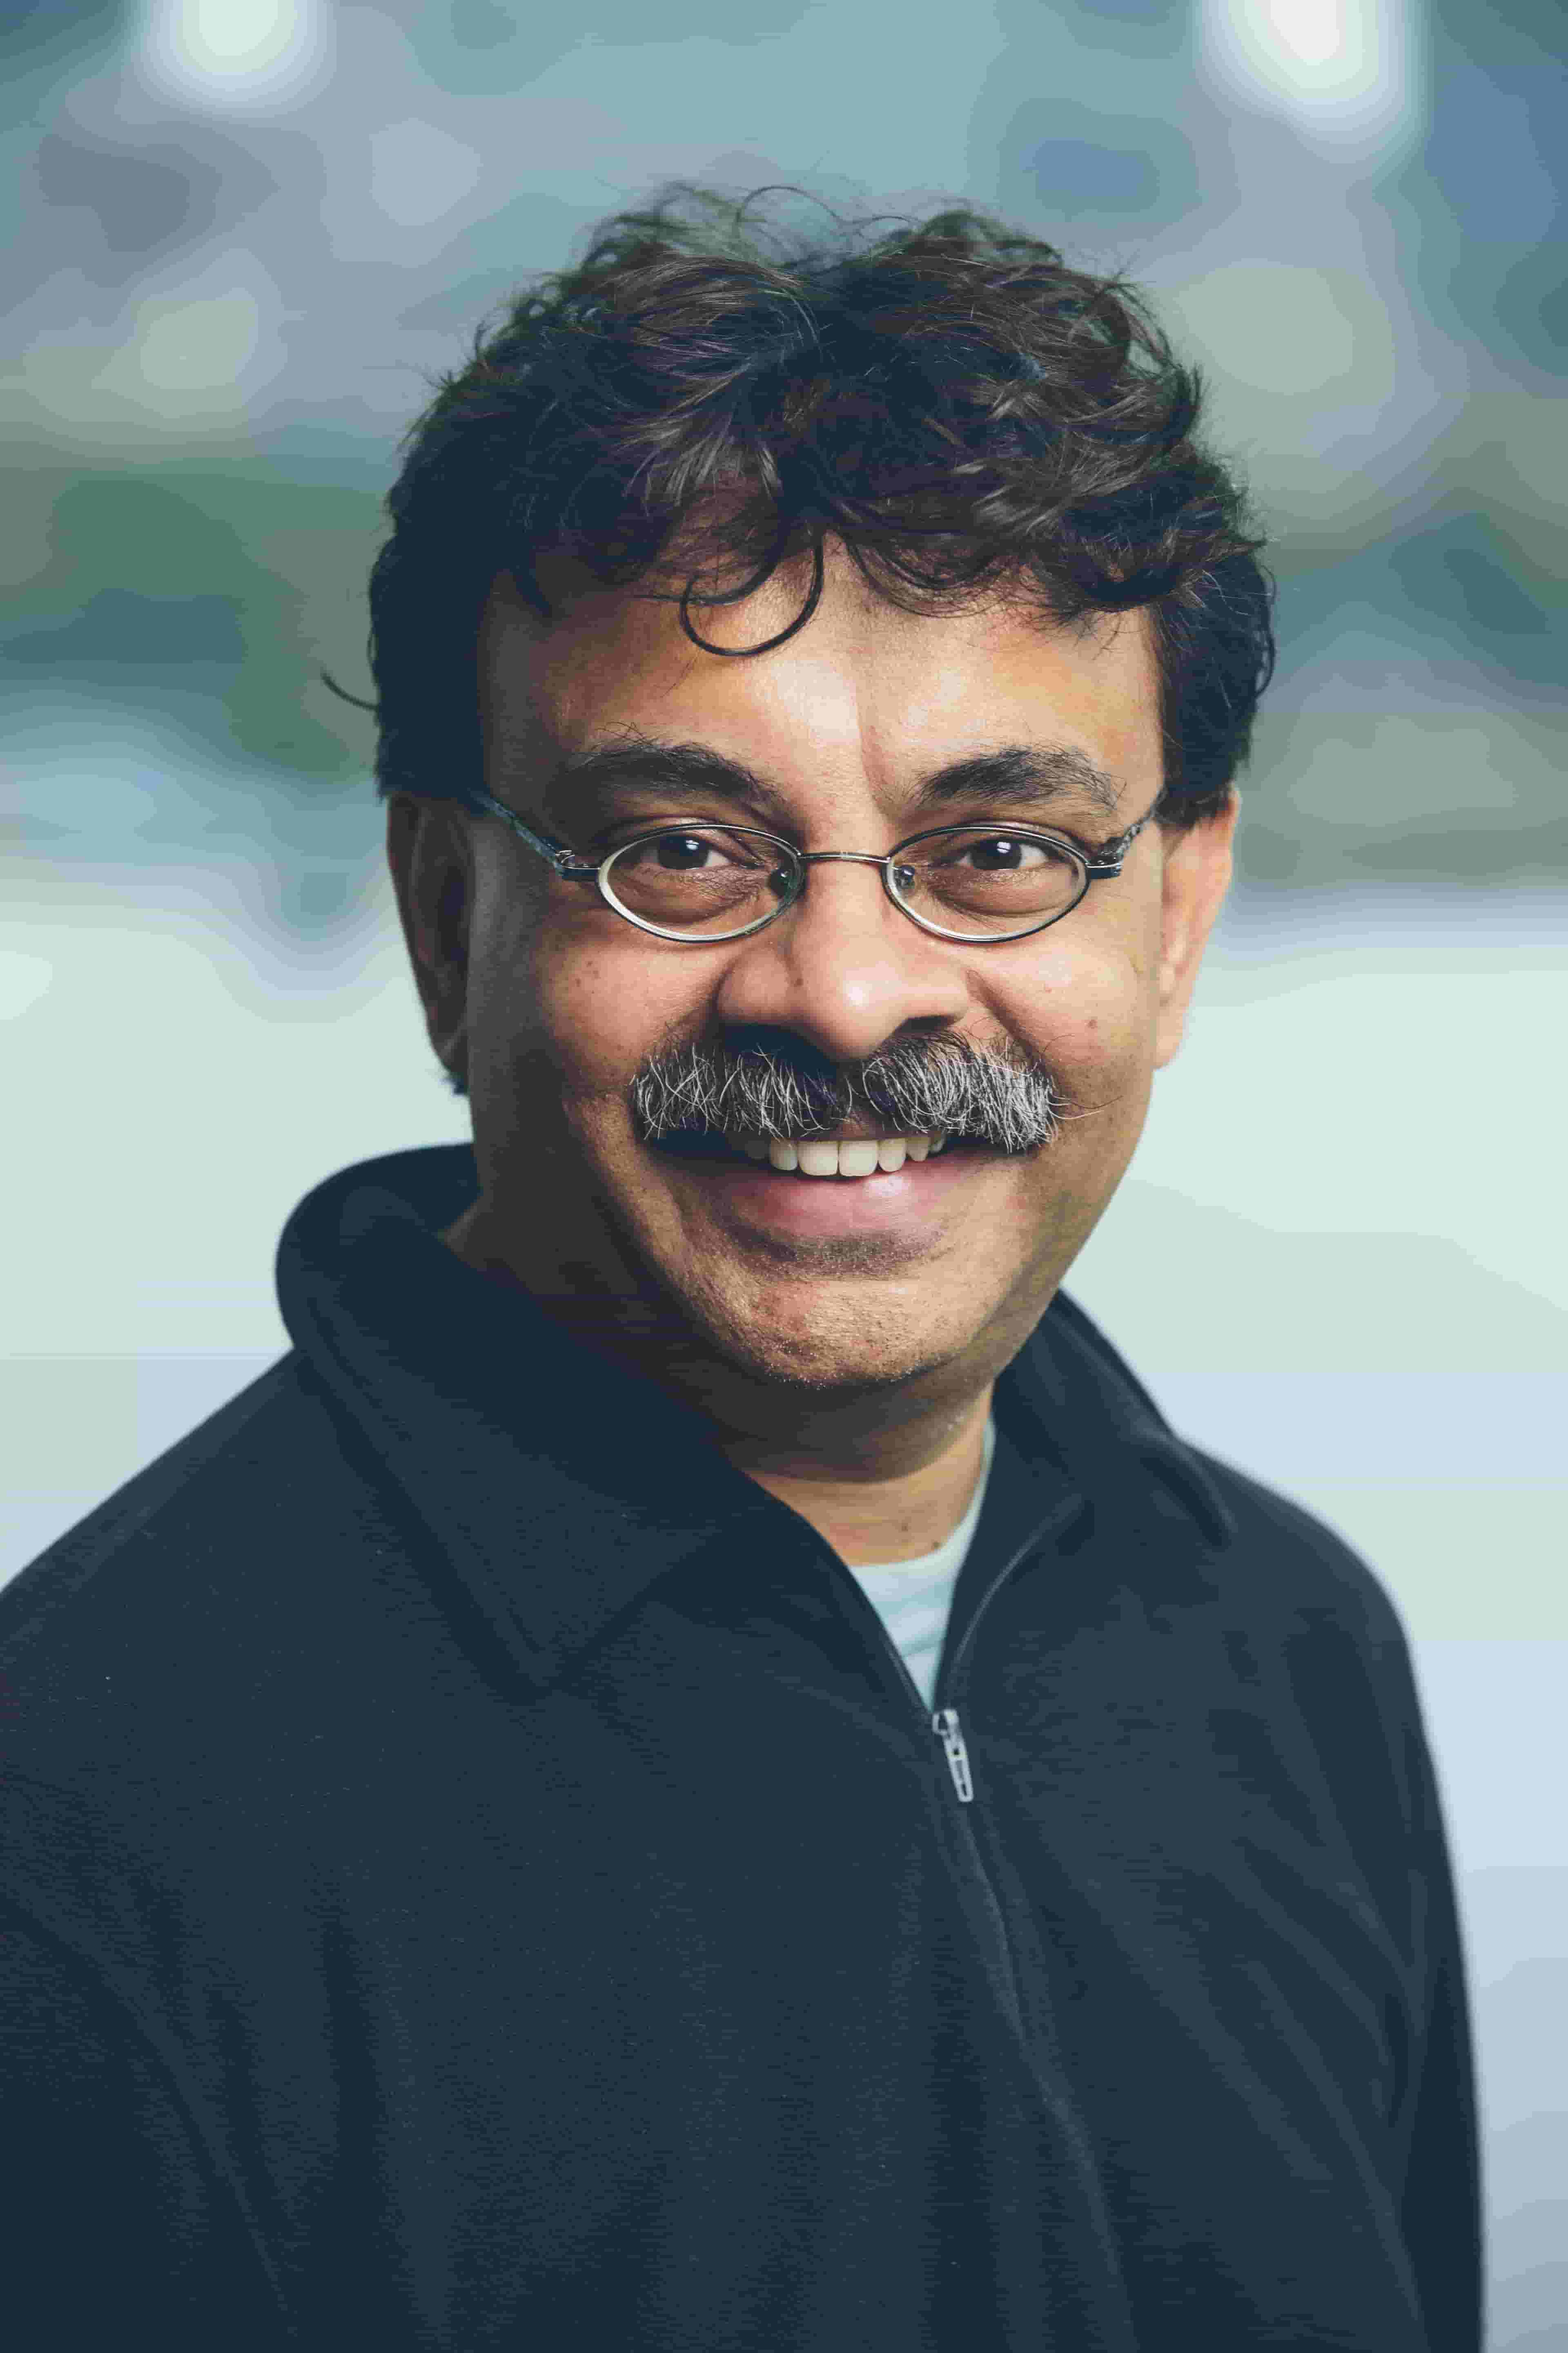
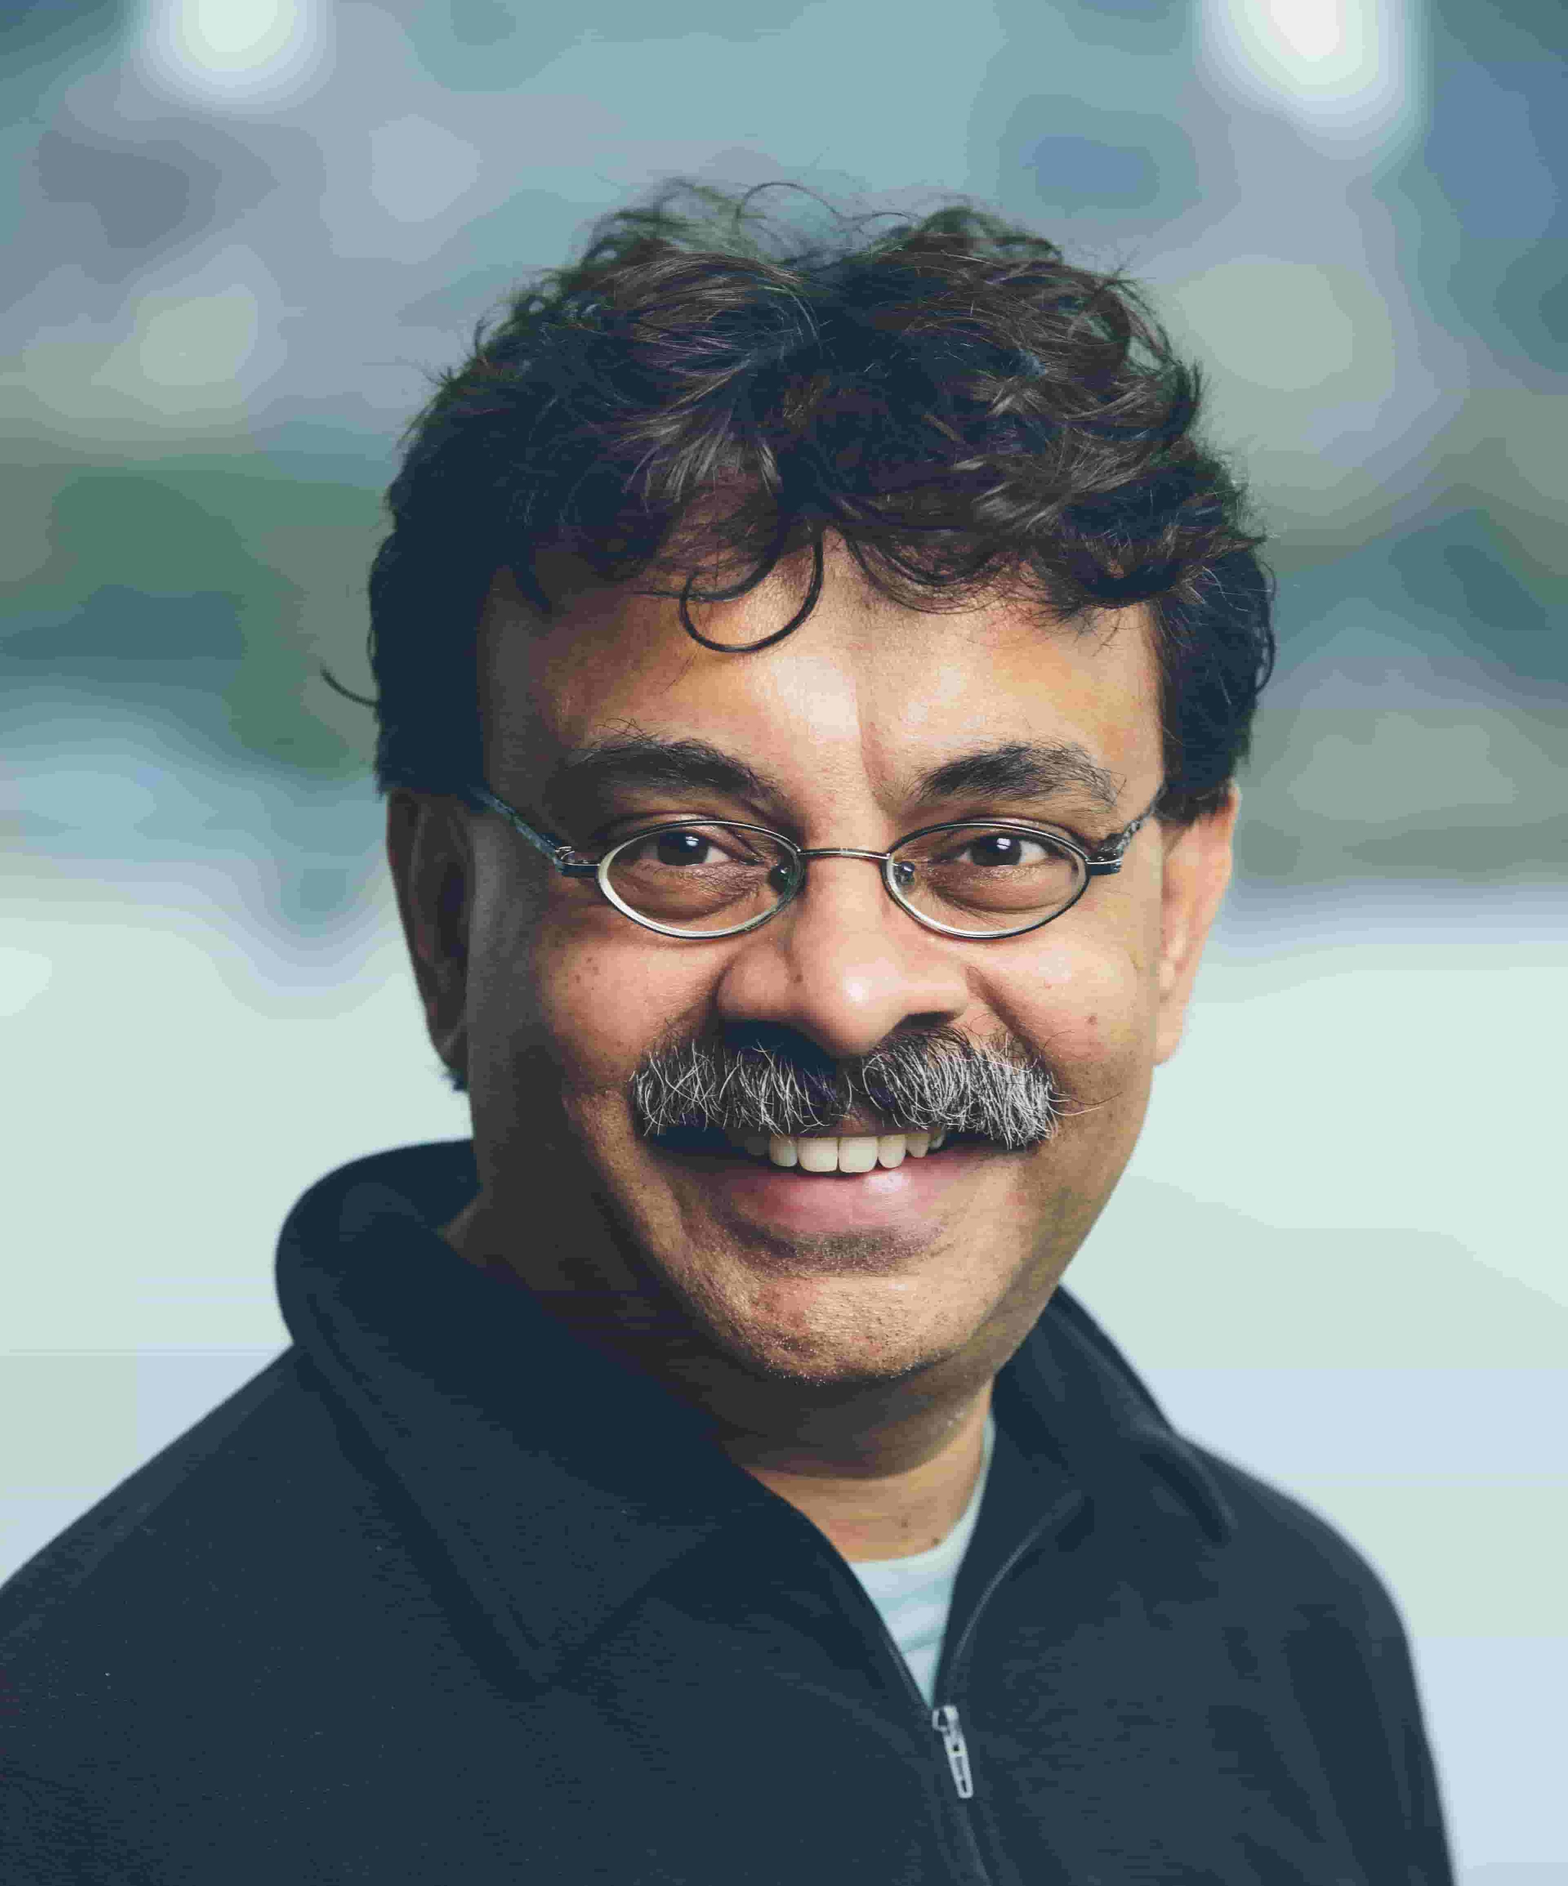
pics

diff --git a/governance.html b/governance.html
@@ -105,7 +105,7 @@
               <p><a href="https://www.math.ias.edu/avi/home">Avi Wigderson</a>, Princeton University</p>
             </div>
             <div class="floated_img">
-              <img class="mugshot-img" src="https://www.cifar.ca/wp-content/uploads/2016/05/QIS-Yao_Andrew.jpg">
+              <img class="mugshot-img" src="/images/yao.jpg">
               <p><a href="http://iiis.tsinghua.edu.cn/yao/">Andy Yao</a>, Tsinghua University</p>
             </div>
             </div></div>
